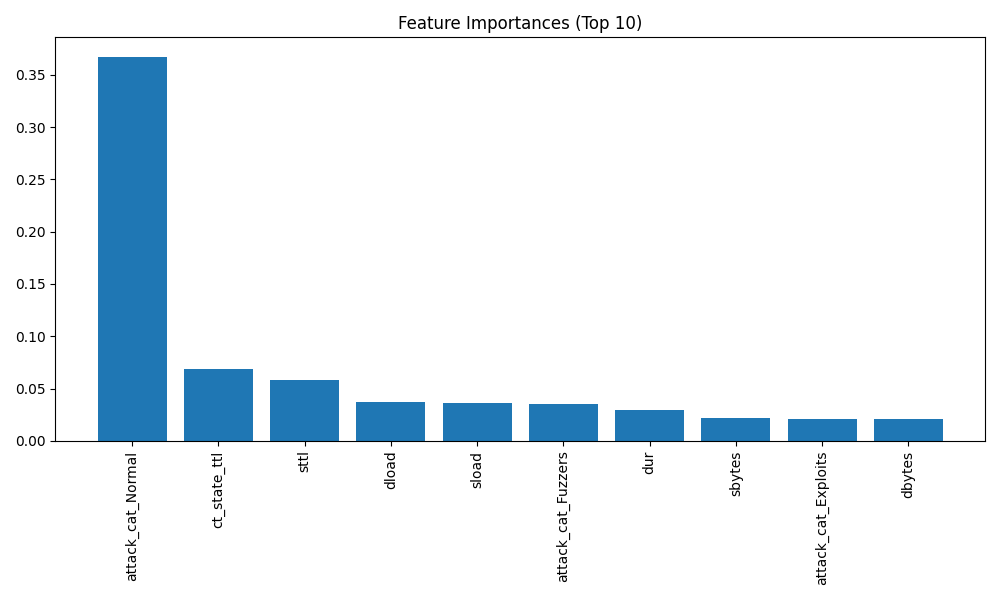
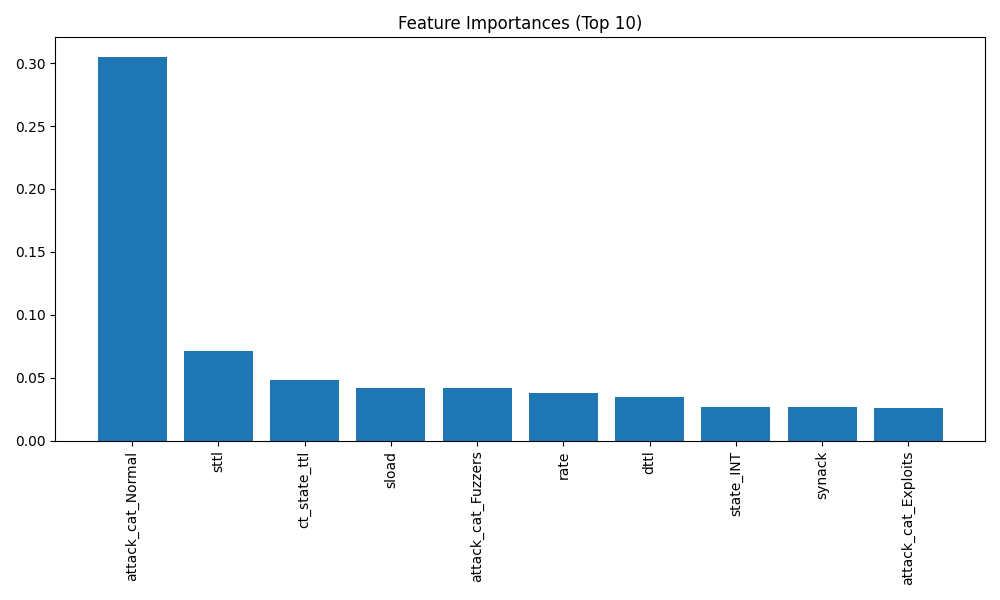
Ran through both models for hyperparameter tests. Added unseen dataset, need to debug column format between unseen and test/training sets.

diff --git a/main.py b/main.py
@@ -5,11 +5,35 @@ from sklearn.model_selection import train_test_split, cross_val_score
 from sklearn.metrics import classification_report
 import matplotlib.pyplot as plt
 import numpy as np
+from sklearn.preprocessing import LabelEncoder
 
 # Load the UNSW-NB15 dataset
 # Replace the file paths with the actual paths to your training and testing CSV files
 train_data = pd.read_csv("data/UNSW_NB15_training-set.csv")
 test_data = pd.read_csv("data/UNSW_NB15_testing-set.csv")
+
+# Load the unseen test dataset
+unseen_test_data = pd.read_csv("data/UNSW-NB15_1.csv", low_memory=False)
+
+print(unseen_test_data.columns)
+
+# Drop irrelevant or high-cardinality columns
+unseen_test_data = unseen_test_data.drop(['id'], axis=1, errors='ignore')
+
+# Apply LabelEncoder to categorical columns
+categorical_columns = ['protocol', 'service', 'state']  # Replace with actual column names
+label_encoders = {}
+for col in categorical_columns:
+    le = LabelEncoder()
+    unseen_test_data[col] = le.fit_transform(unseen_test_data[col].astype(str))
+    label_encoders[col] = le
+
+# Align columns with training data
+unseen_test_data = unseen_test_data.reindex(columns=X_train.columns, fill_value=0)
+
+# Split unseen test data into features and target
+X_unseen = unseen_test_data.drop('label', axis=1)
+y_unseen = unseen_test_data['label']
 
 # Combine training and testing data for preprocessing
 data = pd.concat([train_data, test_data], ignore_index=True)
@@ -27,7 +51,15 @@ y = data['label']  # Target (0 for normal, 1 for malicious)
 X_train, X_test, y_train, y_test = train_test_split(X, y, test_size=0.3, random_state=42)
 
 # Train a Random Forest model
-model = RandomForestClassifier()
+# Initialize the Random Forest model with best hyperparameters (using GridSearchCV or RandomizedSearchCV to find the best parameters)
+model = RandomForestClassifier(
+    max_depth=None,
+    max_features='sqrt',
+    min_samples_leaf=1,
+    min_samples_split=2,
+    n_estimators=200,
+    random_state=42
+)
 model.fit(X_train, y_train)
 
 # Perform cross-validation (check for overfitting - asses the model's generalization ability)
@@ -39,6 +71,17 @@ print("Mean accuracy:", scores.mean())
 # Make predictions and evaluate the model
 y_pred = model.predict(X_test)
 print(classification_report(y_test, y_pred))
+
+# Make predictions on the unseen test data
+y_unseen_pred = model.predict(X_unseen)
+
+# Evaluate the model's performance on the unseen test data
+print("Evaluation on Unseen Test Data:")
+print(classification_report(y_unseen, y_unseen_pred))
+
+# Save predictions to a CSV file
+unseen_test_data['predicted_label'] = y_unseen_pred
+unseen_test_data.to_csv("data/UNSW_NB15_unseen-test-predictions.csv", index=False)
 
 # Get feature importances (which are most important for the model's predictions)
 feature_importances = model.feature_importances_

diff --git a/randomized_search.py b/randomized_search.py
@@ -16,7 +16,12 @@ param_dist = {
 rf = RandomForestClassifier(random_state=42)
 
 # Initialize RandomizedSearchCV
-random_search = RandomizedSearchCV(estimator=rf, param_distributions=param_dist, n_iter=50, cv=5, scoring='accuracy', verbose=2, random_state=42, n_jobs=-1)
+# Note: jobs can be set to -1 to use all processors, or a specific number of processors
+# to limit the number of parallel jobs
+# n_iter is the number of different combinations to try
+# cv is the number of cross-validation folds, 5 here means each combination of hyperparameters 
+# will be evaluated 5 times (once for each fold) until all combinations in the parameter grid have been evaluated
+random_search = RandomizedSearchCV(estimator=rf, param_distributions=param_dist, n_iter=50, cv=5, scoring='accuracy', verbose=2, random_state=42, n_jobs=2)
 
 # Fit RandomizedSearchCV to the data
 random_search.fit(X_train, y_train)

diff --git a/grid_search.py b/grid_search.py
@@ -18,7 +18,7 @@ param_grid = {
 rf = RandomForestClassifier(random_state=42)
 
 # Initialize GridSearchCV
-grid_search = GridSearchCV(estimator=rf, param_grid=param_grid, cv=5, scoring='accuracy', verbose=2, n_jobs=-1)
+grid_search = GridSearchCV(estimator=rf, param_grid=param_grid, cv=5, scoring='accuracy', verbose=2, n_jobs=2)
 
 # Fit GridSearchCV to the data
 grid_search.fit(X_train, y_train)
